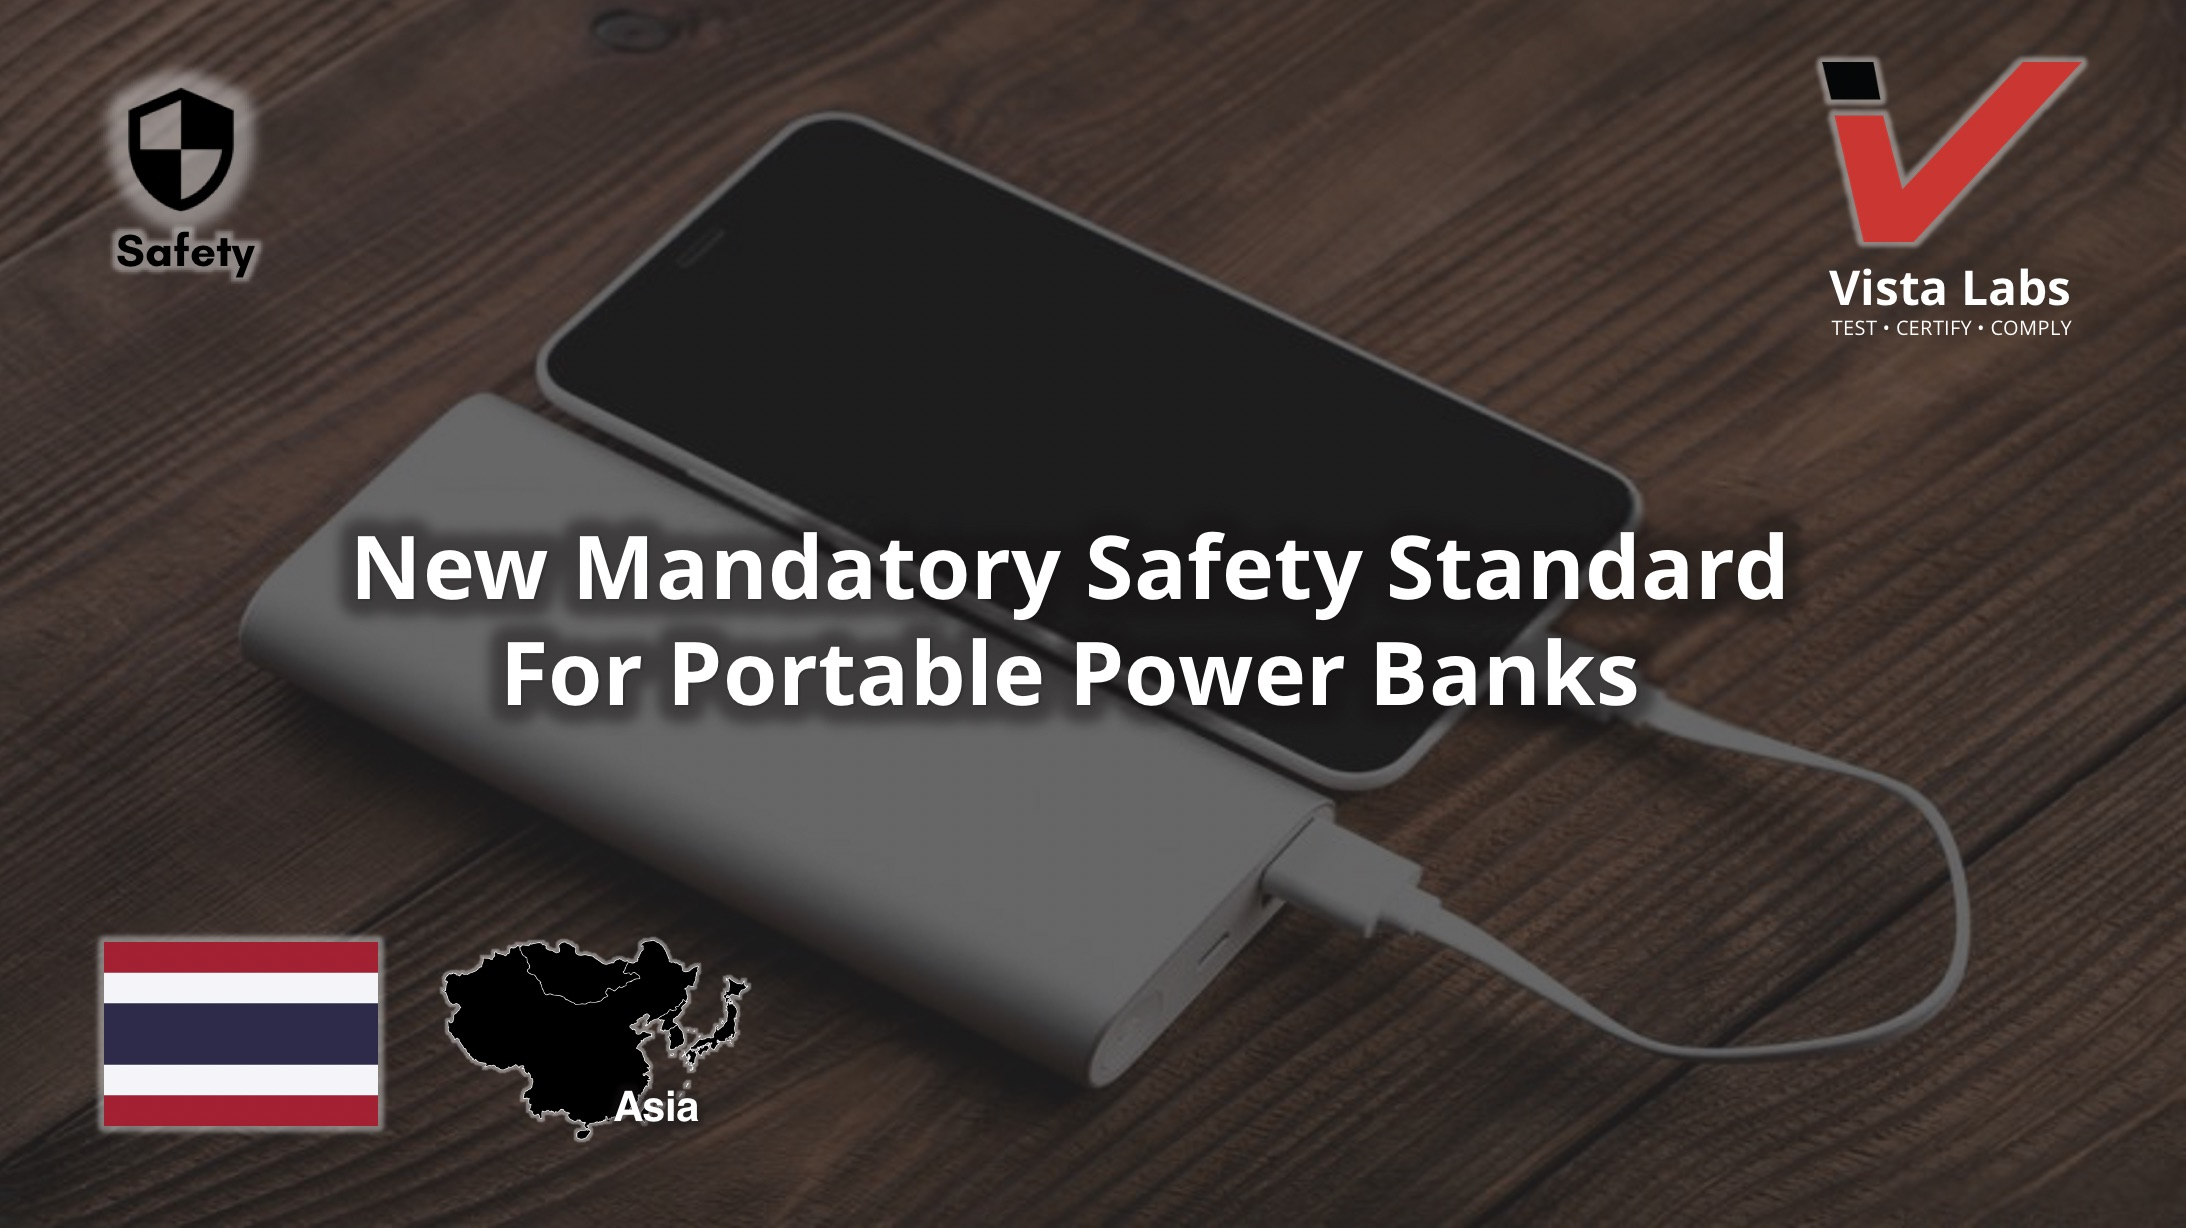
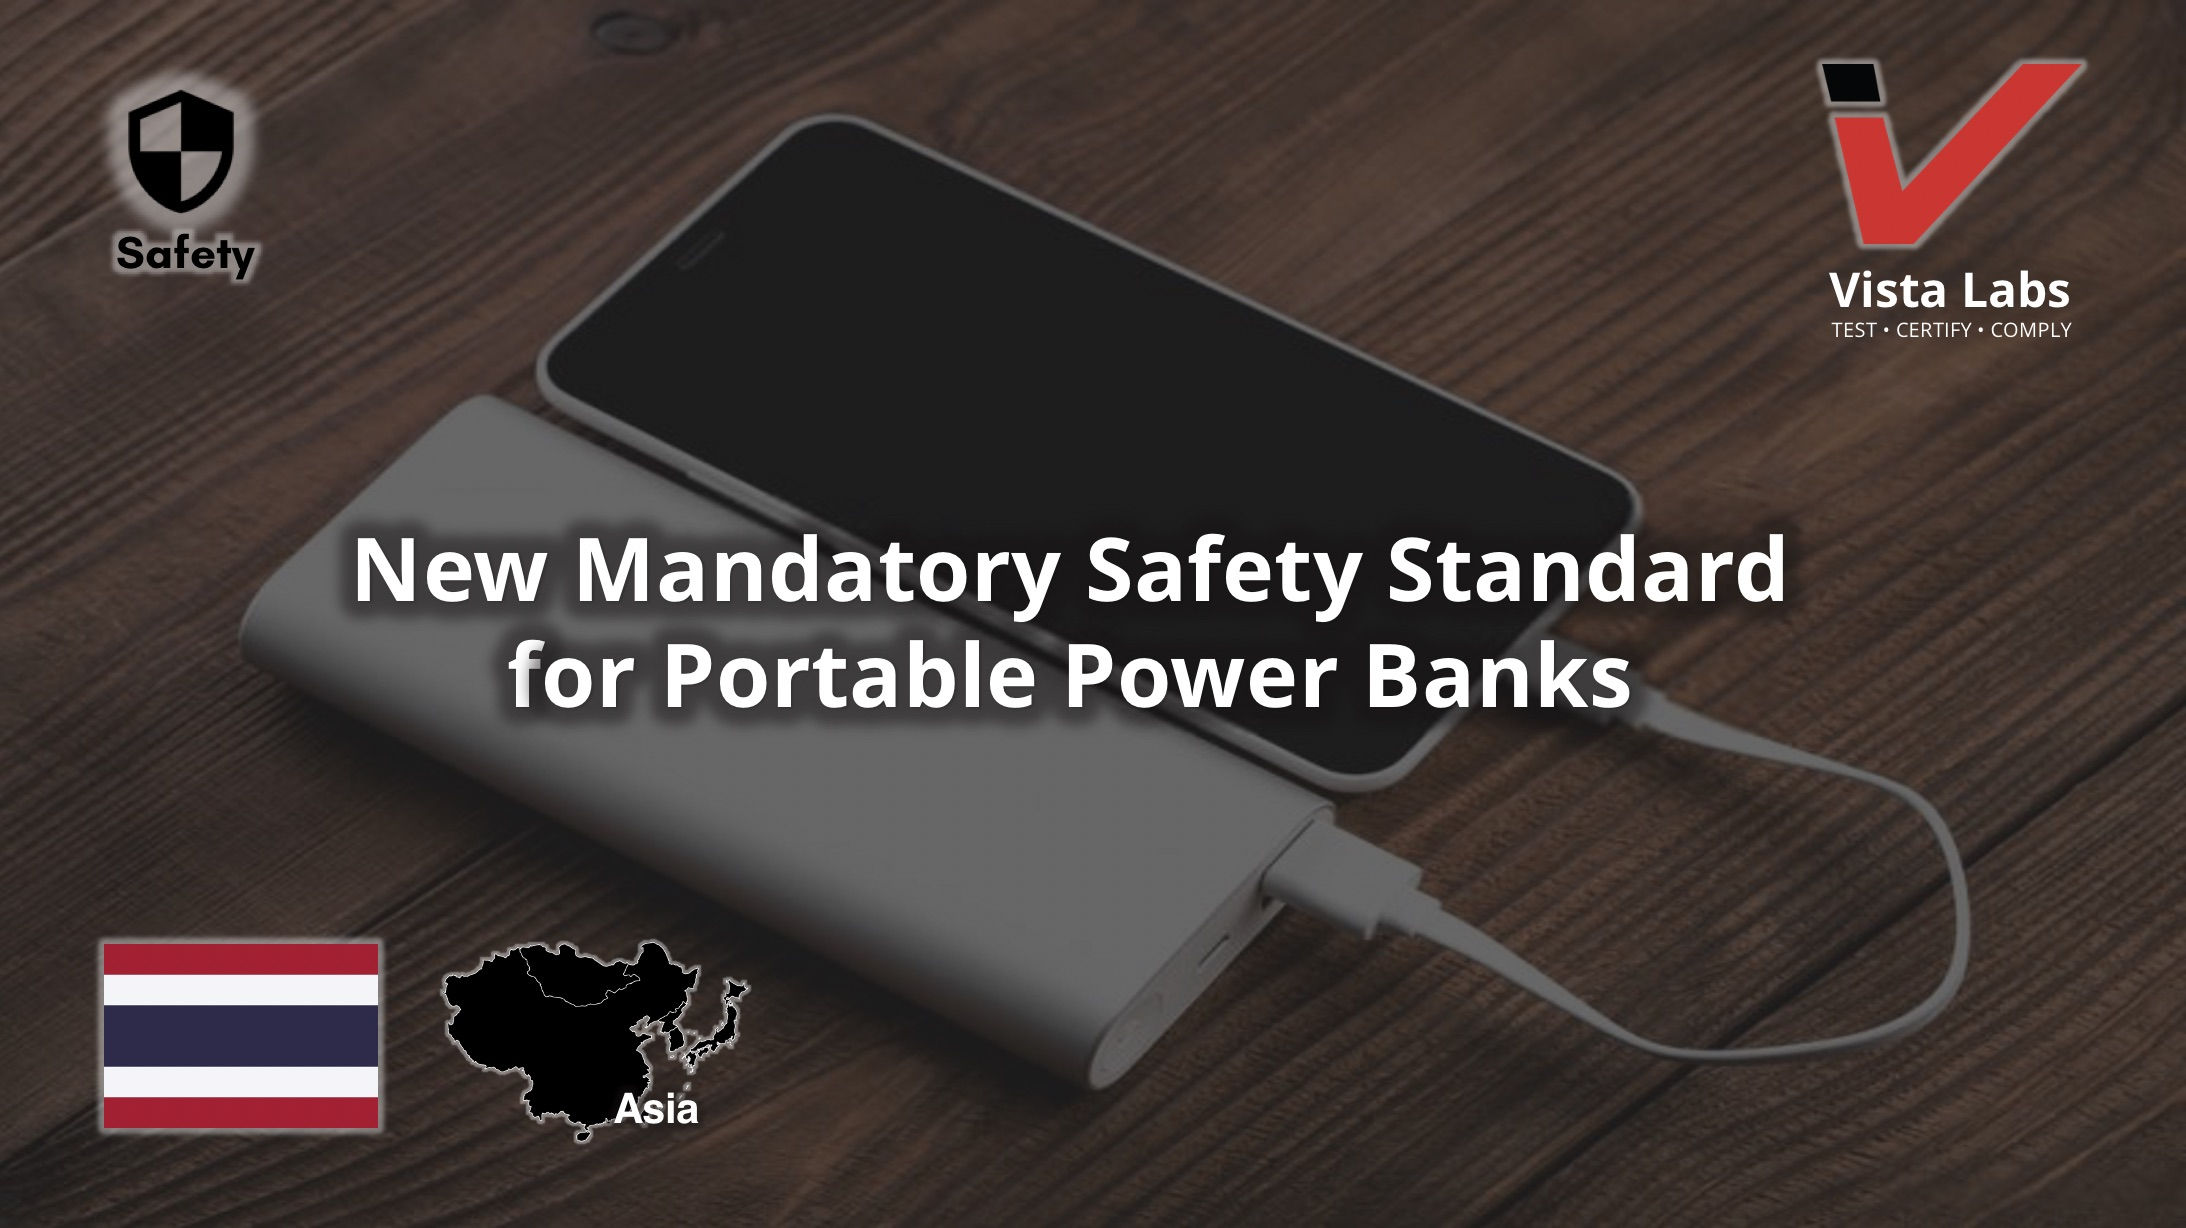
updating weekly newspost/letter

diff --git a/news/news.html b/news/news.html
@@ -335,7 +335,7 @@
 										<div class="post-meta">
 											<span class="pub-date"><em class="fa fa-calendar" aria-hidden="true"></em> July 27, 2020 </span>
 										</div>
-										<h2><a href="/news/newsposts/2020/newspost200727">New Mandatory Safety Standard For Portable Power Banks</a></h2>
+										<h2><a href="/news/newsposts/2020/newspost200727">New Mandatory Safety Standard for Portable Power Banks</a></h2>
 										<p>The Thai Industrial Standards Institute (TISI) of Thailand has announced that the current voluntary safety standard for Portable Power Banks is now mandatory.</p>
 										<a class="btn btn-alt" href="/news/newsposts/2020/newspost200727">Read More</a>
 									</div>

diff --git a/news/newsposts/2020/newspost200727.html b/news/newsposts/2020/newspost200727.html
@@ -292,7 +292,7 @@
 	<div class="section section-blog section-pad">
 		<div class="container">
 			<div class="content row">
-				<h1>New Mandatory Safety Standard For Portable Power Banks</h1>
+				<h1>New Mandatory Safety Standard for Portable Power Banks</h1>
 				<div class="blog-wrapper row">
 					<div class="col-md-8 res-m-bttm">
 
